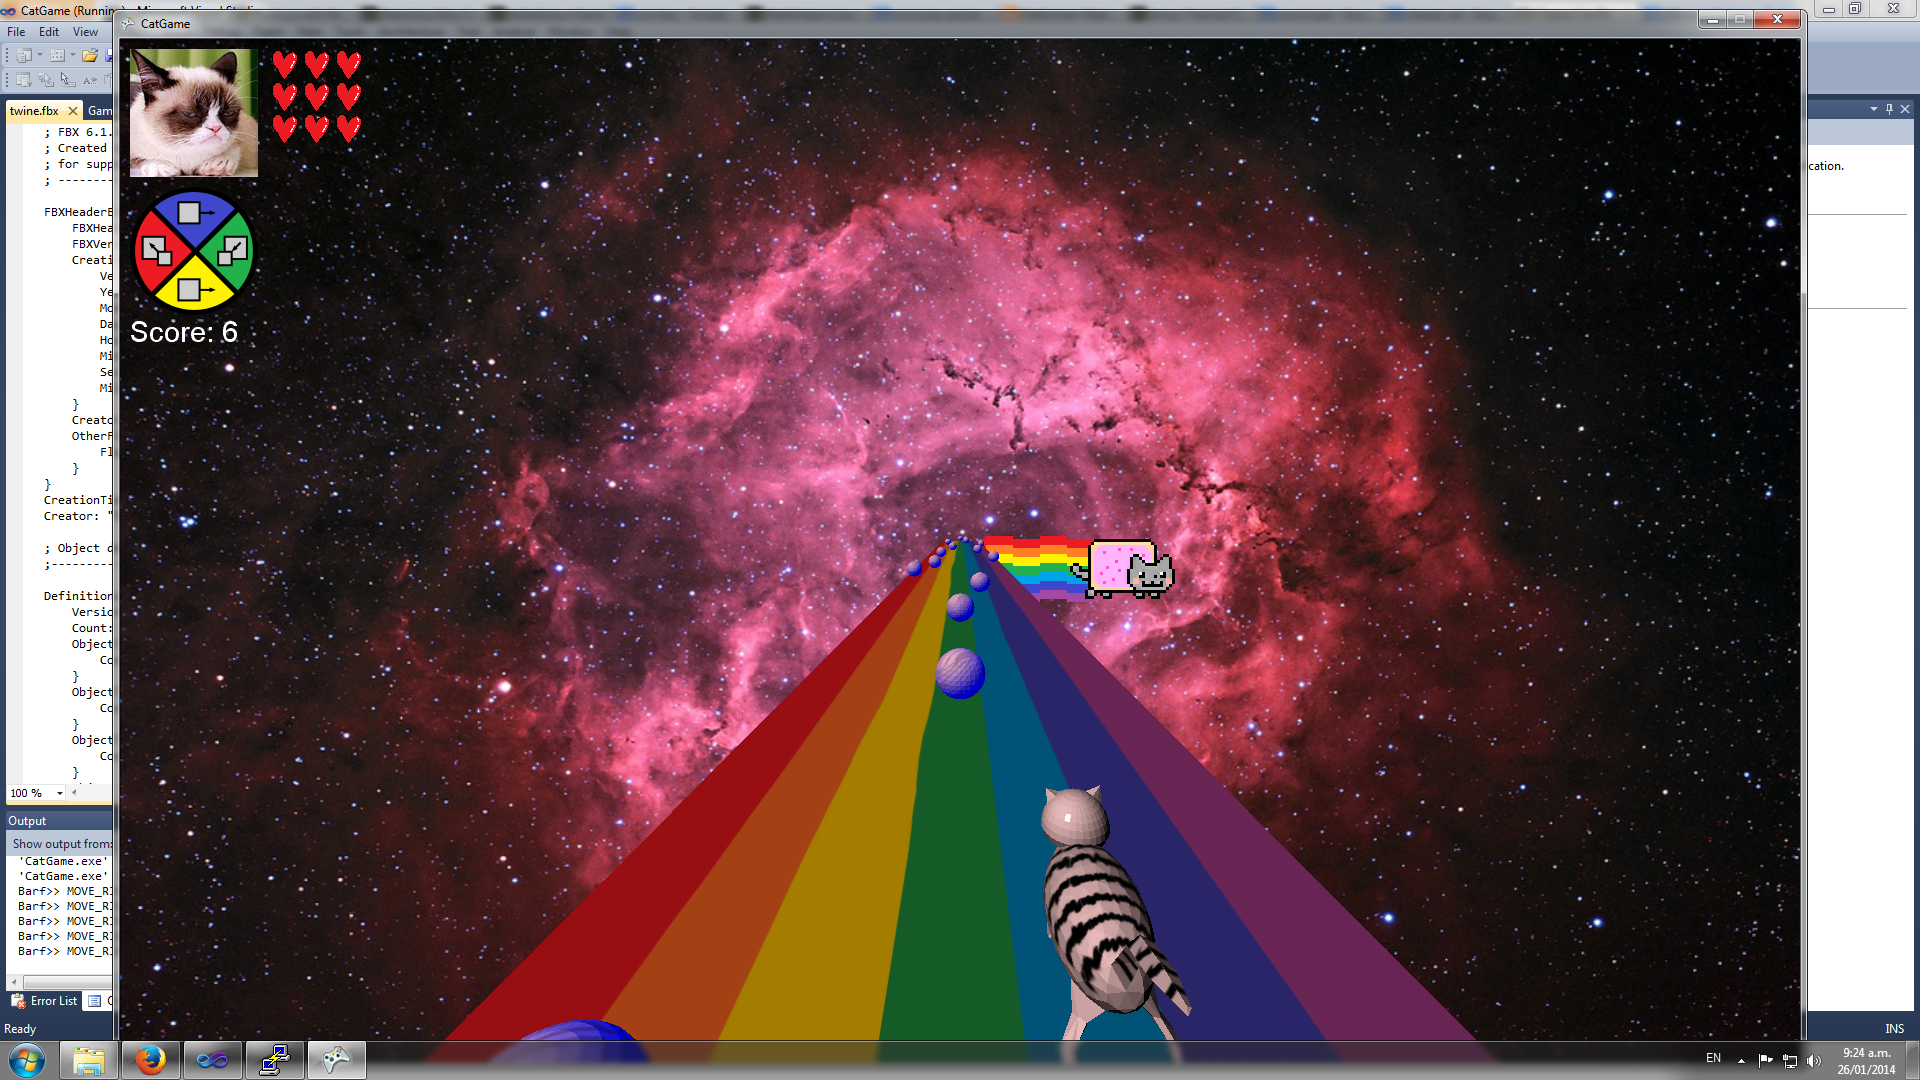
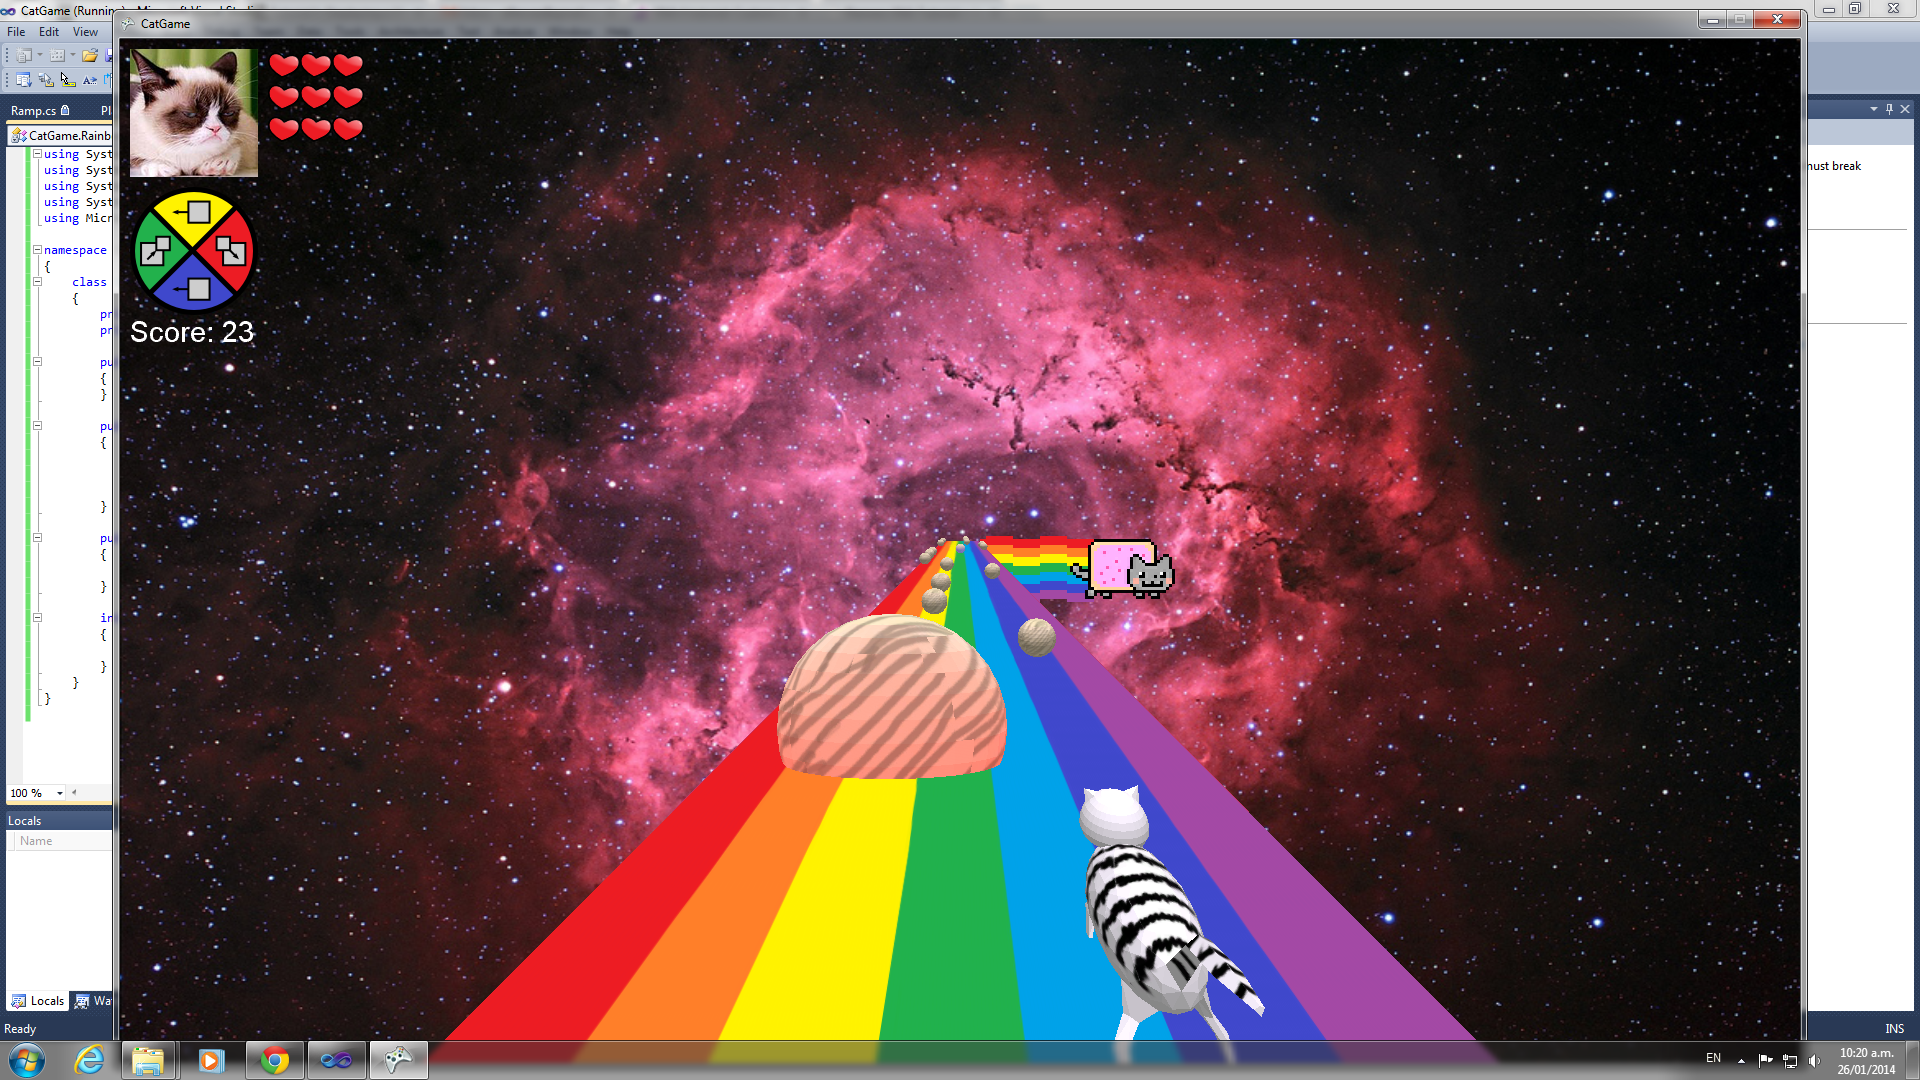
Lighting, obstacle tagging, collision and more!

diff --git a/CatGame/CatGame/Obstacle.cs b/CatGame/CatGame/Obstacle.cs
@@ -13,15 +13,17 @@ namespace CatGame
         public enum Size { SMALL, NORMAL, BIG, HUGE };
 
         private const float TRANSFORM_TIME = 0.2f;
-        private const bool freezeInFinalState = true;
+        private const bool freezeInFinalState = false;
 
         private int lane;
         private int initialLane;
         private Size size;
         public float distanceTravelled;
         private float scaleFactor;
-        private float elapsedTransform;
         private Dictionary<Player, Player.Bonus> playerHasBarfed = new Dictionary<Player, Player.Bonus>();
+        private Dictionary<Player, float> playerElapsedBarf = new Dictionary<Player, float>();
+        private float elapsedScale;
+        private float elapsedTrans;
 
         public Obstacle(int lane) : base("")
         {
@@ -33,7 +35,6 @@ namespace CatGame
             world = Matrix.CreateTranslation(initialLane, 0, distanceTravelled);
             this.collisionTested = false;
             this.usingFinalState = false;
-            elapsedTransform = 0;
         }
 
         public void moveLeft(Player player)
@@ -43,6 +44,7 @@ namespace CatGame
             if (hasBeenHitByPlayer(player))
                 return;
             playerHasBarfed.Add(player, Player.Bonus.MOVE_LEFT);
+            elapsedTrans = 0;
 
             int cutoff = 1;
             switch (size)
@@ -64,7 +66,8 @@ namespace CatGame
                 return;
             if (hasBeenHitByPlayer(player))
                 return;
-            playerHasBarfed.Add(player, Player.Bonus.MOVE_RIGHT); ;
+            playerHasBarfed.Add(player, Player.Bonus.MOVE_RIGHT);
+            elapsedTrans = 0;
 
             int cutoff = 5;
             switch (size)
@@ -87,6 +90,7 @@ namespace CatGame
             if (hasBeenHitByPlayer(player))
                 return;
             playerHasBarfed.Add(player, Player.Bonus.SCALE_UP);
+            elapsedScale = 0;
 
             switch (size)
             {
@@ -113,6 +117,7 @@ namespace CatGame
             if (hasBeenHitByPlayer(player))
                 return;
             playerHasBarfed.Add(player, Player.Bonus.SCALE_DOWN);
+            elapsedScale = 0;
 
             switch (size)
             {
@@ -140,7 +145,7 @@ namespace CatGame
             switch (size)
             {
                 case Size.SMALL:
-                    newScaleFactor = 0.7f;
+                    newScaleFactor = 0.5f;
                     break;
                 case Size.BIG:
                     newScaleFactor = 3;
@@ -154,12 +159,14 @@ namespace CatGame
             //if (usingFinalState)
             //{
                 scaleFactor = newScaleFactor;
-                elapsedTransform = MathHelper.Clamp(elapsedTransform + delta, 0, TRANSFORM_TIME);
             //}
-            float lerpScaleFactor = MathHelper.Lerp(1, scaleFactor, elapsedTransform / TRANSFORM_TIME);
             world = Matrix.Identity;
-            world = Matrix.CreateScale(lerpScaleFactor, lerpScaleFactor, 1);
+            float lerpScaleFactor = MathHelper.Lerp(1, scaleFactor, elapsedScale / TRANSFORM_TIME);
+            world = Matrix.CreateScale(lerpScaleFactor);
             world *= Matrix.CreateTranslation(lane, 0, distanceTravelled);
+
+            elapsedScale = Math.Min(elapsedScale + delta, TRANSFORM_TIME);
+            elapsedTrans = Math.Min(elapsedTrans + delta, TRANSFORM_TIME);
         }
 
         internal bool covers(float queryLane)
@@ -182,11 +189,13 @@ namespace CatGame
         public override void SetEffect(Matrix view, Matrix projection, RainbowLighting lighting, BasicEffect effect, Player activePlayer, GameTime gameTime)
         {
             base.SetEffect(view, projection, lighting, effect, activePlayer, gameTime);
+            effect.DirectionalLight0.Direction = Vector3.Down;
+            effect.DirectionalLight0.DiffuseColor = Vector3.One;
             if (hasBeenHitByPlayer(activePlayer))
             {
                 effect.EmissiveColor = Player.BONUS_COLORS[(int)playerHasBarfed[activePlayer]].ToVector3();
-                float selectedScale = 1 + (float) (Math.Sin(gameTime.TotalGameTime.TotalMilliseconds / 100) * 0.25);
-                effect.World = Matrix.CreateScale(selectedScale) * effect.World;
+                //float selectedScale = 0.9f + (float) (Math.Sin(gameTime.TotalGameTime.TotalMilliseconds / 100) * 0.1);
+                //effect.World = Matrix.CreateScale(selectedScale) * effect.World;
             }
             else
             {
@@ -200,14 +209,19 @@ namespace CatGame
 
         internal BoundingBox getBoundingBox()
         {
-            Vector3 min = Vector3.Transform(new Vector3(0, 0, 0), world);
-            Vector3 max = Vector3.Transform(new Vector3(scaleFactor * 0.9f, scaleFactor * 0.9f, 0.9f), world);
+            Vector3 min = Vector3.Transform(new Vector3(-.45f, -.45f, -.45f), world);
+            Vector3 max = Vector3.Transform(new Vector3(.45f, .45f, .45f), world);
             return new BoundingBox(min, max);
         }
 
         internal bool hasBeenHitByPlayer(Player player)
         {
             return playerHasBarfed.ContainsKey(player);
+        }
+
+        internal float GetScale()
+        {
+            return scaleFactor;
         }
     }
 }

diff --git a/CatGame/CatGame/RainbowLighting.cs b/CatGame/CatGame/RainbowLighting.cs
@@ -10,6 +10,8 @@ namespace CatGame
     {
         private static Color[] RAINBOW_COLORS = { Color.Red, Color.Orange, Color.Yellow, Color.Green, Color.Blue, Color.Indigo, Color.Violet };
         private float elapsed = 0;
+        private const float CYCLE_TIME = 1f;
+        private const float MOVEMENT_TIME = .4f;
 
         public RainbowLighting()
         {
@@ -17,14 +19,27 @@ namespace CatGame
 
         public Vector3 GetDirection()
         {
-            Vector3 initialVector = Vector3.Forward;
-            // TODO Sweeping lighting
-            return new Vector3(0, -1, (float)Math.Cos(elapsed));
+            float progress = (elapsed % CYCLE_TIME) / CYCLE_TIME;
+            Vector3 lightVector = new Vector3(0, 0, 1);
+            float rotation = MathHelper.Lerp(0, MathHelper.Pi, MathHelper.Clamp((progress - (1-MOVEMENT_TIME) / 2) / MOVEMENT_TIME, 0, 1));
+            lightVector = Vector3.Transform(lightVector, Matrix.CreateRotationX(rotation));
+            return lightVector;
         }
 
         public Vector3 GetColor()
         {
-            return RAINBOW_COLORS[(int) elapsed % 7].ToVector3() * 0.2f + Vector3.One * .8f;
+            float progress = (elapsed % CYCLE_TIME) / CYCLE_TIME;
+            float heatUpTime = (1 - MOVEMENT_TIME) / 2;
+            float intensity = 1;
+            if (progress < heatUpTime)
+            {
+                intensity = MathHelper.Lerp(0.2f, 1, progress / heatUpTime);
+            }
+            else if (progress >= (1 - heatUpTime))
+            {
+                intensity = MathHelper.Lerp(0.2f, 1, (1 - progress) / heatUpTime);
+            }
+            return (RAINBOW_COLORS[(int) elapsed % 7].ToVector3() * 1f + Vector3.One * 0f) * intensity;
         }
 
         internal void Update(float delta)

diff --git a/CatGame/CatGame/Ramp.cs b/CatGame/CatGame/Ramp.cs
@@ -25,19 +25,14 @@ namespace CatGame
             textureCycle += delta;
         }
 
-        public override void LoadContent(ContentManager content)
+        public override void SetEffect(Matrix view, Matrix projection, RainbowLighting lighting, BasicEffect effect, Player activePlayer, GameTime gameTime)
         {
-            base.LoadContent(content);
-            foreach (ModelMesh mesh in model.Meshes)
-                foreach (BasicEffect effect in mesh.Effects)
-                {
-                    effect.DirectionalLight0.Enabled = true;
-                    effect.DirectionalLight0.Direction = Vector3.Down;
-                    effect.DirectionalLight1.Enabled = false;
-                    effect.DirectionalLight2.Enabled = false;
-                    effect.AmbientLightColor = Color.White.ToVector3();
-                    effect.LightingEnabled = true;
-                }
+            base.SetEffect(view, projection, lighting, effect, activePlayer, gameTime);
+            effect.DirectionalLight0.Enabled = true;
+            effect.DirectionalLight0.Direction = Vector3.Down;
+            //effect.DirectionalLight0.DiffuseColor = Vector3.One;
+            effect.SpecularColor = Vector3.Zero;
+            effect.AmbientLightColor = Vector3.One;
         }
     }
 }

diff --git a/CatGame/CatGame/Player.cs b/CatGame/CatGame/Player.cs
@@ -14,6 +14,7 @@ namespace CatGame
     {
         public enum Bonus { SCALE_UP, MOVE_LEFT, SCALE_DOWN, MOVE_RIGHT, LAST };
         public static Color[] BONUS_COLORS = { Color.Red, Color.Yellow, Color.Green, Color.Blue, Color.White };
+        public static Color[] PLAYER_COLORS = { Color.White, Color.Cyan, Color.LightGreen, Color.LightSalmon };
         Bonus activeBonus = Bonus.SCALE_UP;
         public Bonus prevBonus = Bonus.SCALE_UP;
 
@@ -252,7 +253,15 @@ namespace CatGame
 
         public bool dead { get; set; }
 
-       
+        public override void SetEffect(Matrix view, Matrix projection, RainbowLighting lighting, BasicEffect effect, Player activePlayer, GameTime gameTime)
+        {
+            base.SetEffect(view, projection, lighting, effect, activePlayer, gameTime);
+            effect.DirectionalLight2.Enabled = true;
+            effect.DirectionalLight2.Direction = Vector3.Down;
+            effect.DirectionalLight2.DiffuseColor = Vector3.One * .5f;
+            if ((int) playerIndex >= -1)
+                effect.AmbientLightColor = PLAYER_COLORS[(int) playerIndex + 1].ToVector3();
+        }
     }
 
 }

diff --git a/CatGame/CatGame/Game1.cs b/CatGame/CatGame/Game1.cs
@@ -171,7 +171,7 @@ namespace CatGame
                     {
                         foreach (Player p in players)
                         {
-                            if (isCollision(o, p))
+                            if (isCollision(o, p) && o.GetScale() >= 1)
                             {                               
                                     p.takeHit();
                                     if (p.dead == true)
@@ -239,7 +239,7 @@ namespace CatGame
         private bool isCollision(Obstacle o, Player p)
         {
             BoundingBox obstacleBounds = o.getBoundingBox();
-            BoundingBox playerBounds = new BoundingBox(Vector3.Transform(new Vector3(0, 0, 0), p.world), Vector3.Transform(new Vector3(0.9f, 0.9f, 0.9f), p.world));
+            BoundingBox playerBounds = new BoundingBox(Vector3.Transform(new Vector3(-.5f, -.5f, -.5f), p.world), Vector3.Transform(new Vector3(.5f, .5f, .5f), p.world));
 
             return (obstacleBounds.Intersects(playerBounds));
         }

diff --git a/CatGame/CatGame/ThreeDObject.cs b/CatGame/CatGame/ThreeDObject.cs
@@ -59,9 +59,9 @@ namespace CatGame
             effect.DirectionalLight0.SpecularColor = Color.White.ToVector3();
             effect.DirectionalLight1.Enabled = false;
             effect.DirectionalLight2.Enabled = false;
-            effect.SpecularPower = 10000;
-            effect.SpecularColor = Vector3.One;
-            effect.AmbientLightColor = Color.LightGray.ToVector3();
+            effect.SpecularPower = 10;
+            effect.SpecularColor = lighting.GetColor();
+            effect.AmbientLightColor = Color.DarkGray.ToVector3();
         }
         
     }
